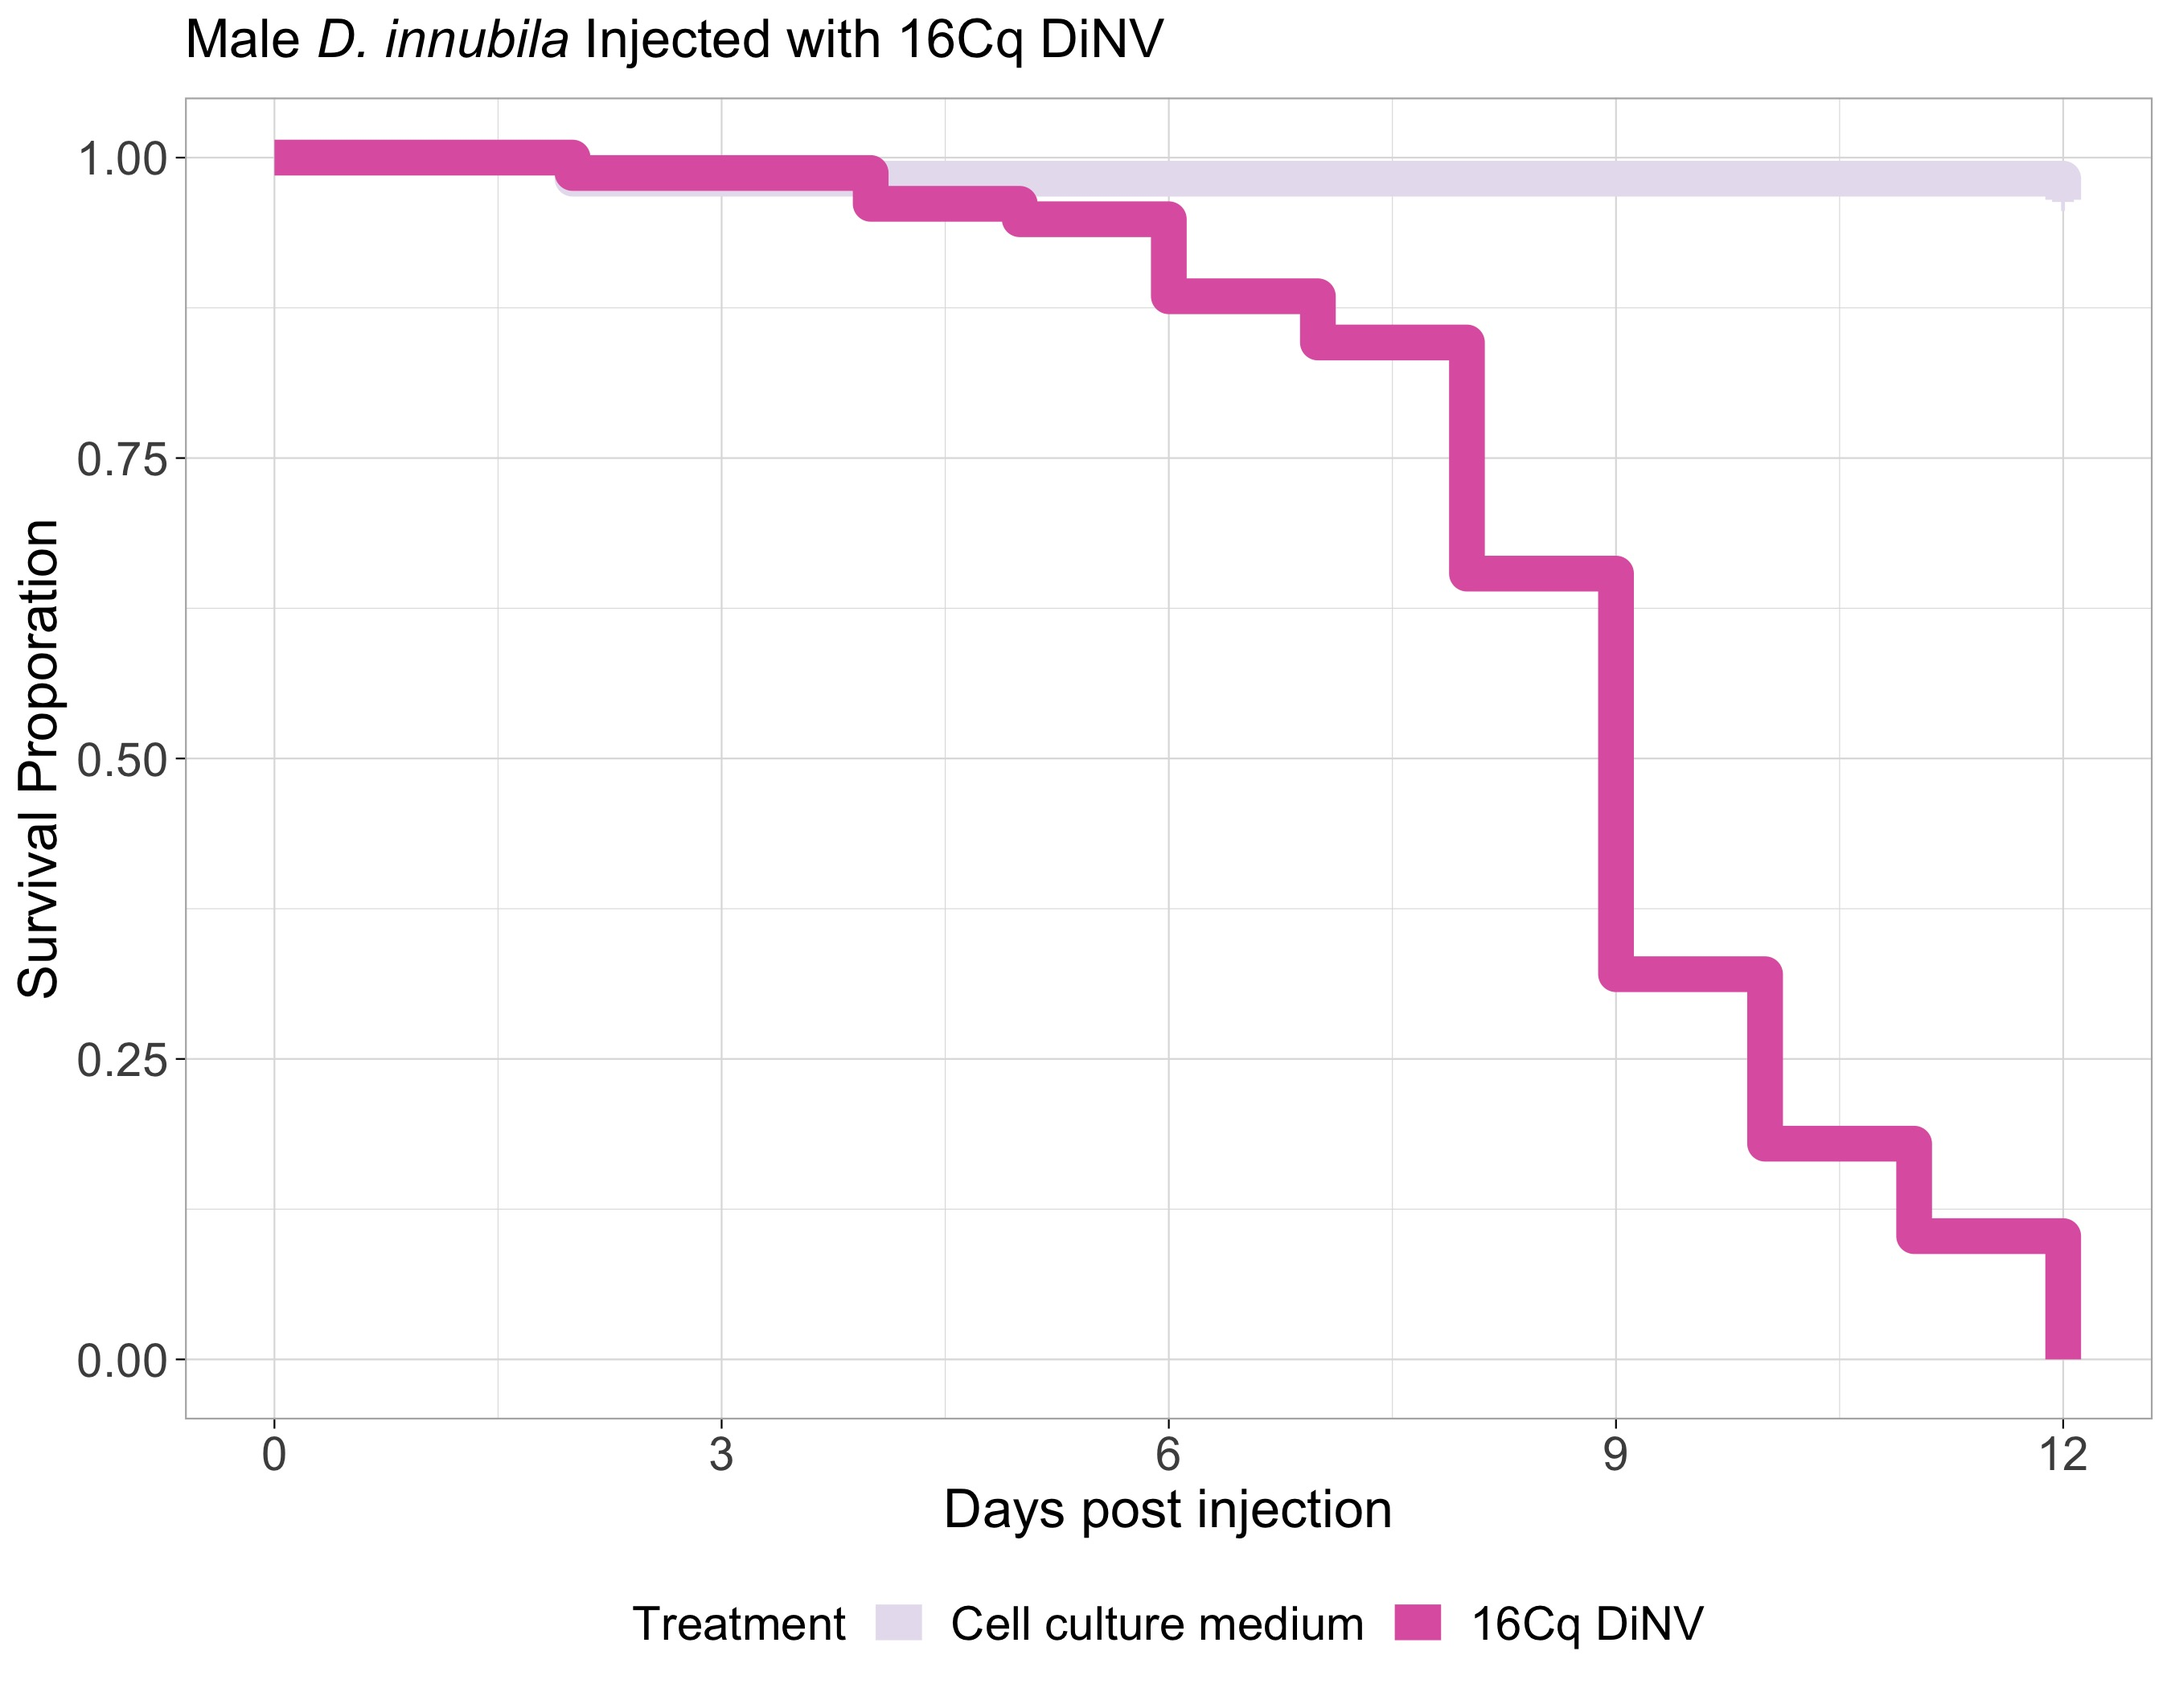
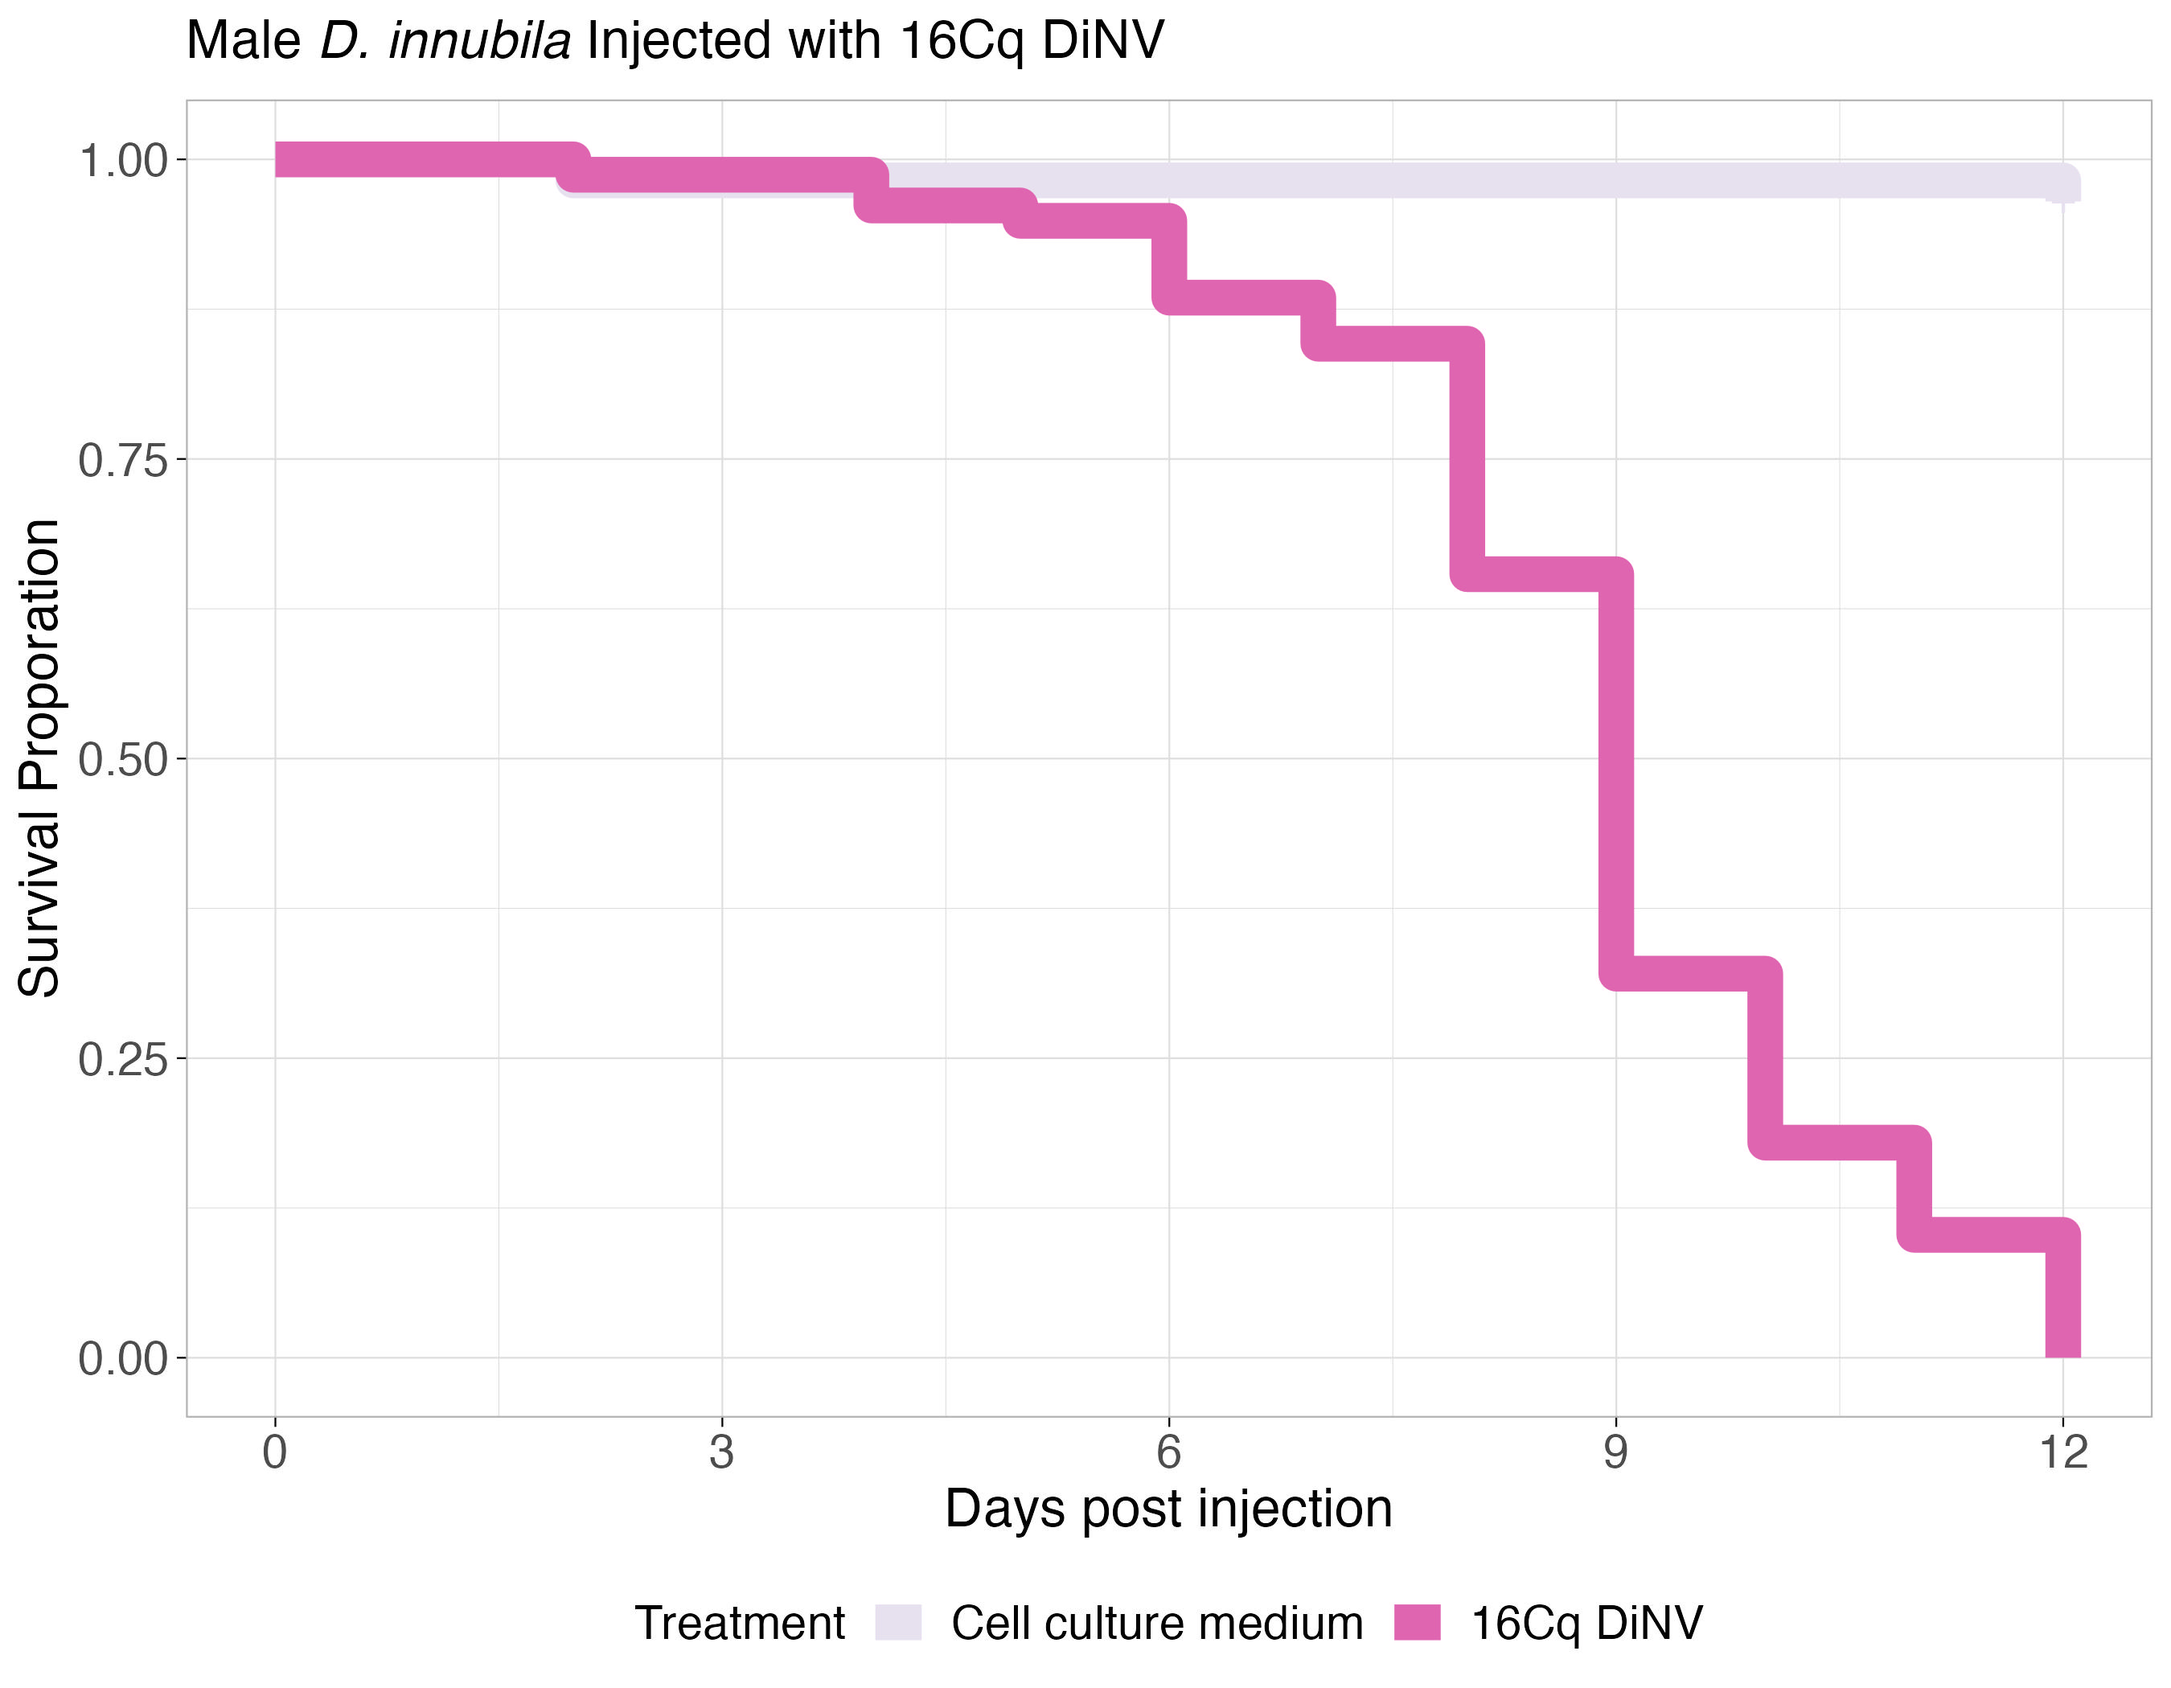
updating plots for paper

diff --git a/Infection_suvival_curves/Combined-rep-1-2-16Cq-injt/Combined-2-replicate-16Cq-injections.md b/Infection_suvival_curves/Combined-rep-1-2-16Cq-injt/Combined-2-replicate-16Cq-injections.md
@@ -296,3 +296,26 @@ exp((559.9158 - 566.6194)/2)
 # 0.03502126 
 # So this would suggest that there is a significant difference in the AIC between the two models, and with AIC the lower number is the best one, indicating that the model that uses block + treatment is the best model
 ```
+
+Changing figure colors and lines for paper
+
+``` r
+df_fit2<- survfit(Surv(dead, status) ~ treatment, data=df.convert)
+
+
+ggsurvplot(df_fit2, size = 3,
+          pval = FALSE, conf.int = FALSE,
+          ggtheme = theme_light(), # Change ggplot2 theme
+          font.tickslab = c(14),
+          legend = "bottom",
+          font.x = c(16),
+          font.y = c(16),
+          font.t = c(16),
+          title = expression(paste("Male",italic(" D. innubila "), "Injected with 16Cq DiNV")),
+          legend.title="Treatment",
+          legend.labs=c("Cell culture medium", "16Cq DiNV"),
+          font.legend = c(14),
+          palette = c("#009E73", "#D55E00")) + ylab("Survival Proporation") + xlab("Days post injection") 
+```
+
+![](Combined-2-replicate-16Cq-injections_files/figure-commonmark/unnamed-chunk-8-1.png)
